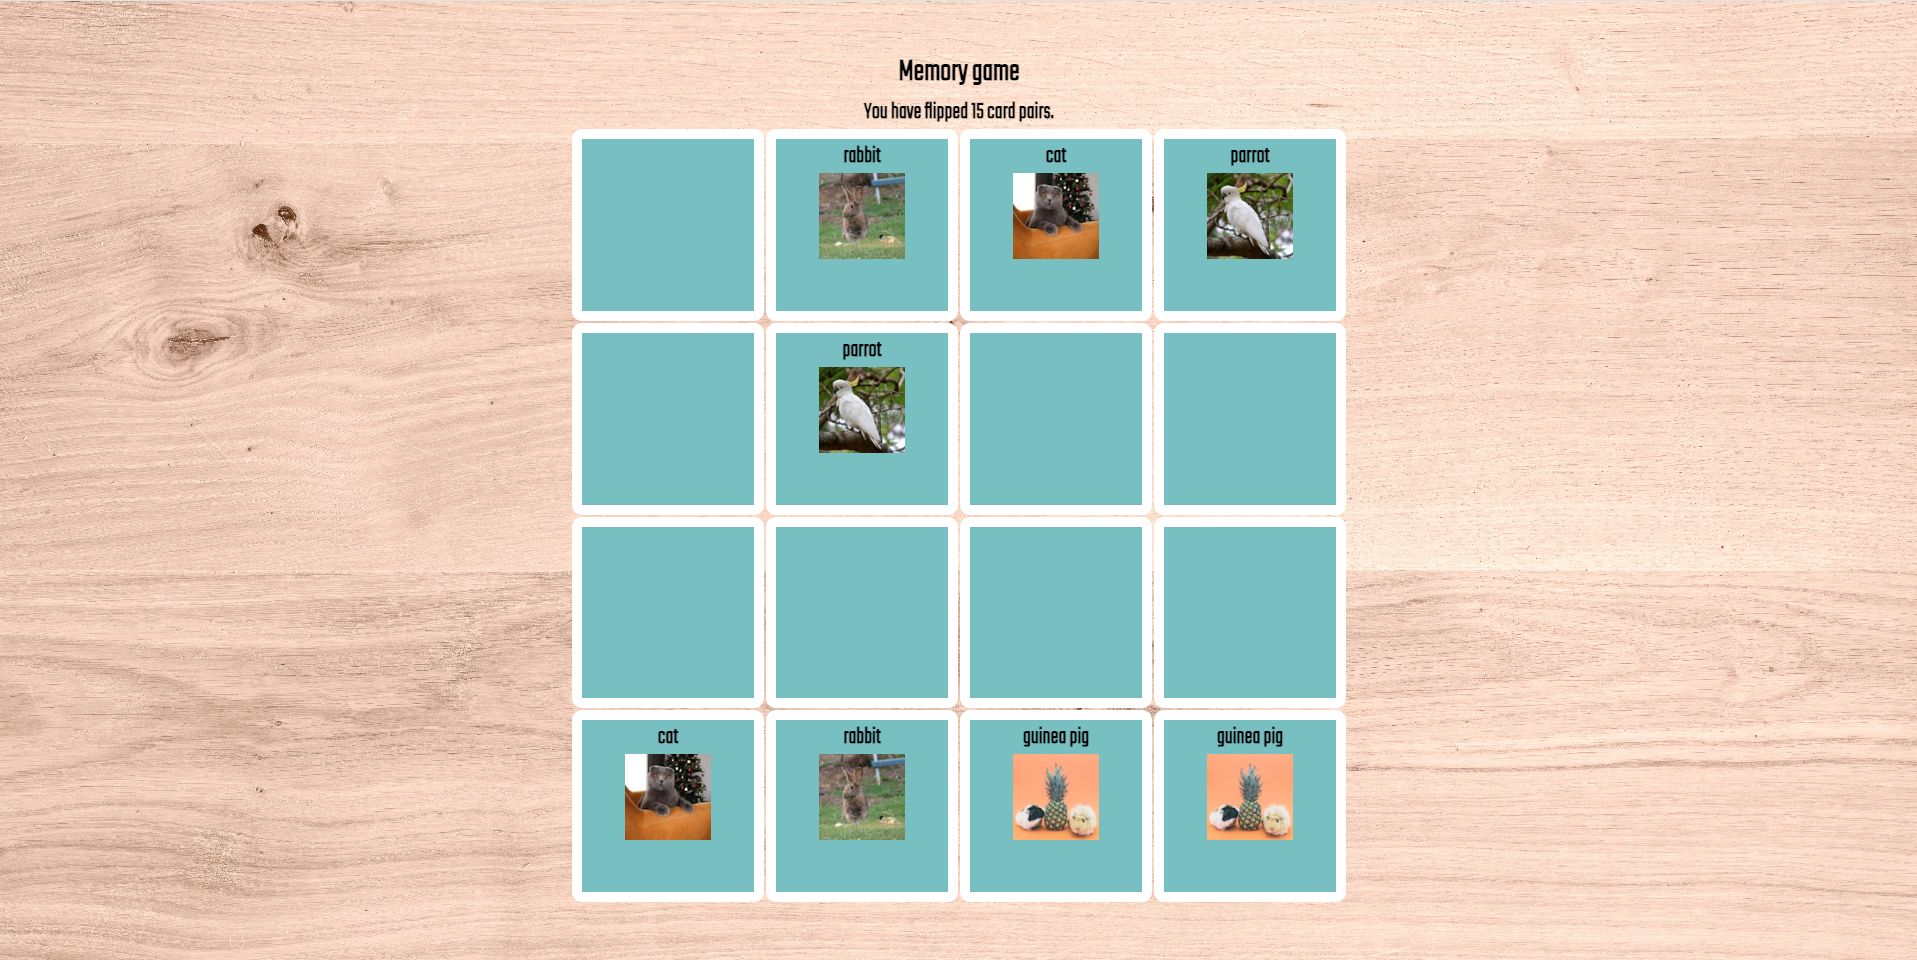
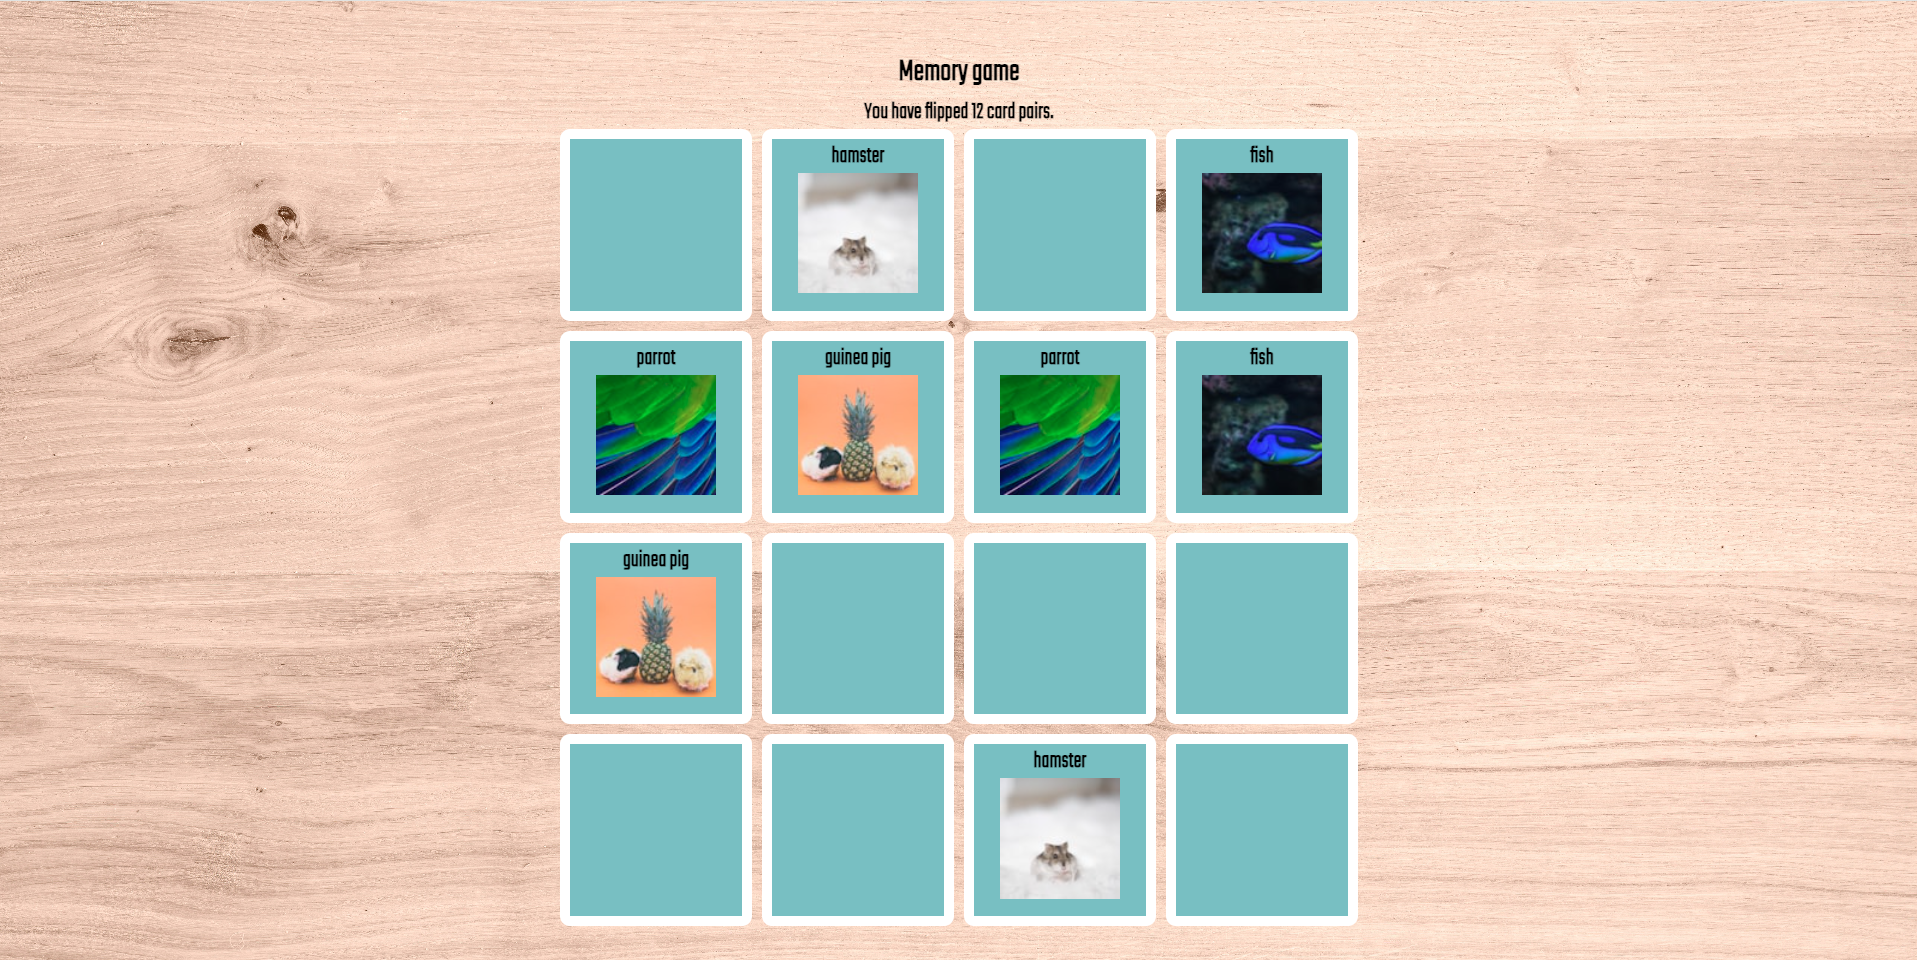
change picture size and README picture

Changed region(s): [[0.277, 0.0938, 0.7079, 0.9688]]

diff --git a/src/index.css b/src/index.css
@@ -24,7 +24,7 @@ body {
   display: grid;
   grid-template-columns: repeat(4, 1fr);
   grid-template-rows: repeat(4, 1fr);
-  gap: 2px;
+  gap: 10px;
   justify-items: center;
   margin-bottom: 20vh;
 }
@@ -48,15 +48,15 @@ h2 {
 }
 
 .image {
-  width: 50%;
+  width: 70%;
 }
 
 .animation {
   position: relative;
-  animation: le 900ms infinite alternate;
+  animation: shake 900ms infinite alternate;
 }
 
-@keyframes le {
+@keyframes shake {
   0% {
     top: 0px;
   }

diff --git a/README.md b/README.md
@@ -4,7 +4,7 @@
 
 ## Introduction
 
-This memory game includes eight pairs of cards with pet pictures. When a matching pair is flipped, the pair stays revealed. When there's no mathch, the pair shakes and becomes hidden. See how few card flips it takes you to reveal all the pairs! Try to beat the record 12 pairs!
+This memory game includes eight pairs of cards with pet pictures. When a matching pair is flipped, the pair stays revealed. When there's no match, the pair shakes and becomes hidden. See how few card flips it takes you to reveal all the pairs! Try to beat my record of 12 pairs!
 
 ## Technologies used
 
